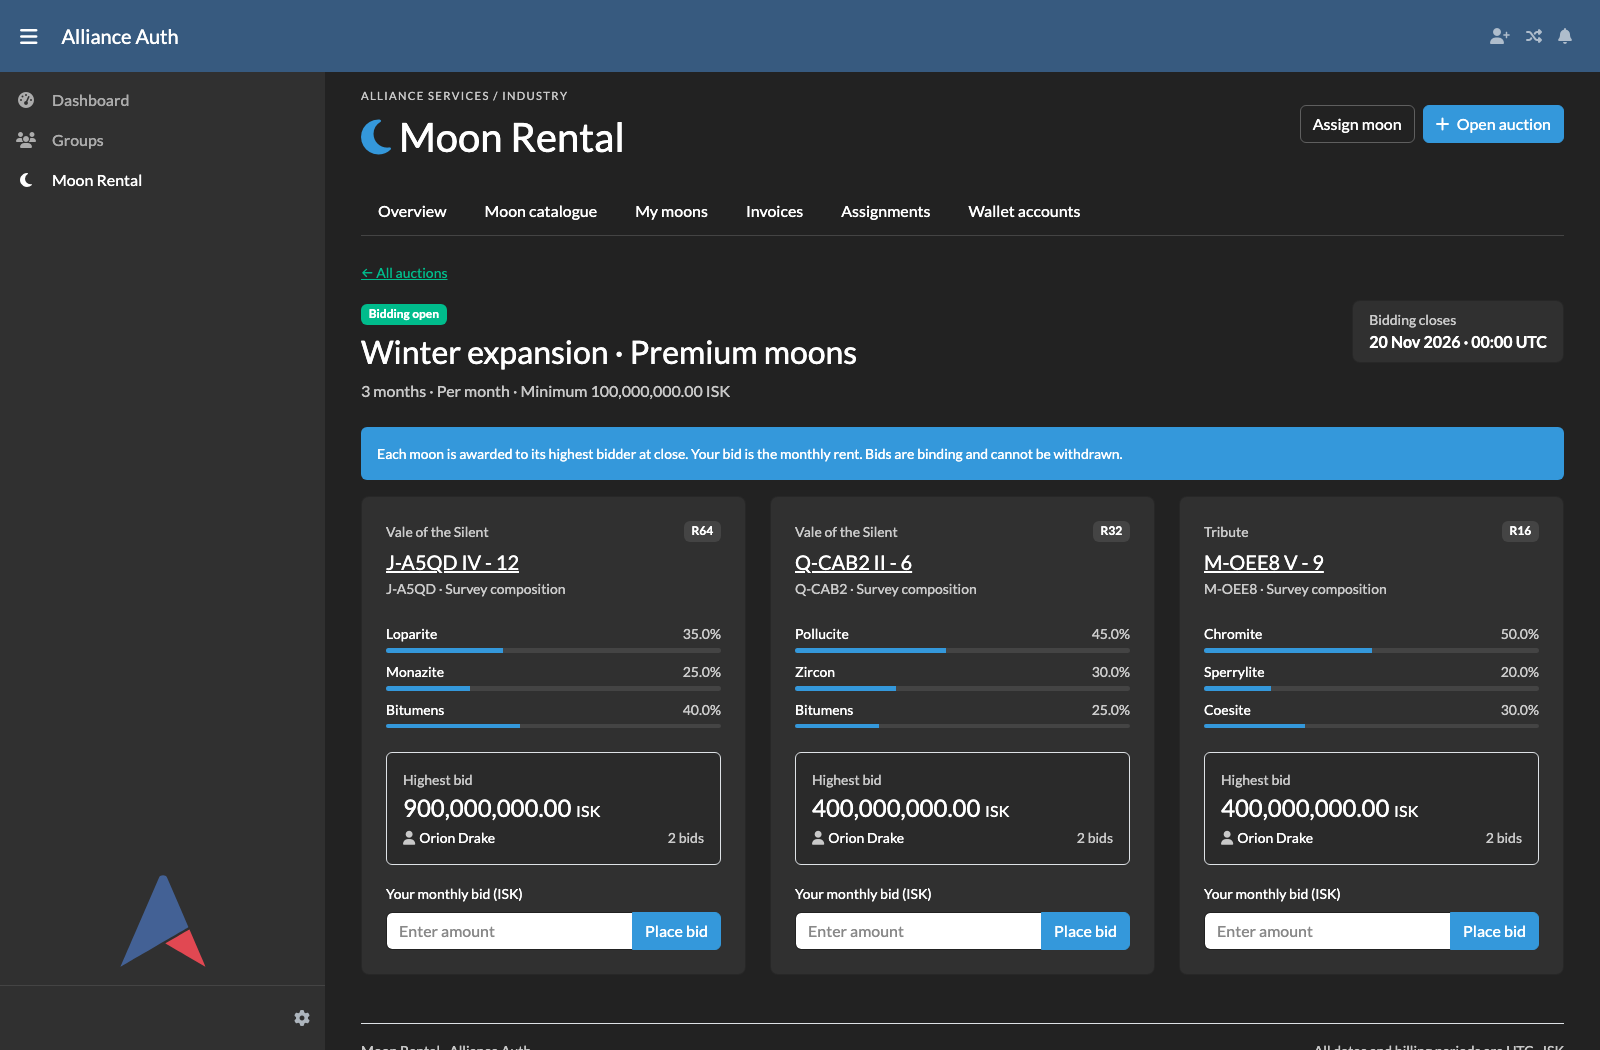
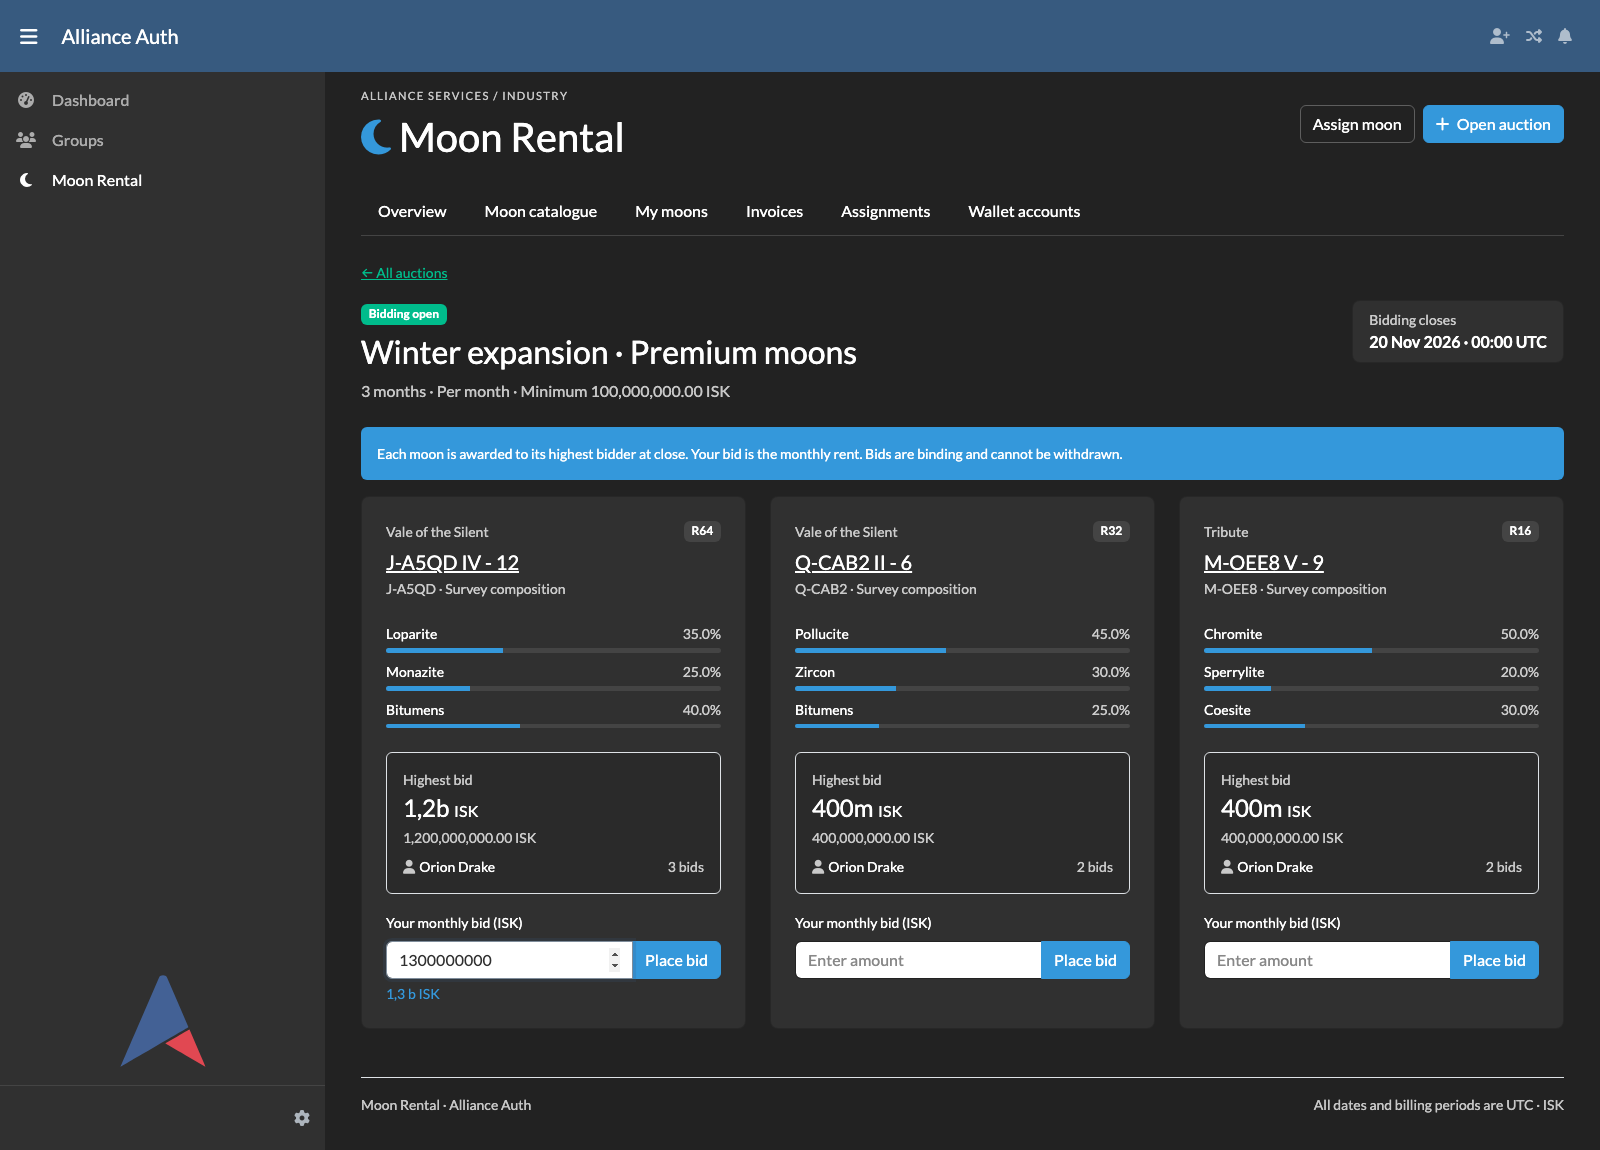
Simplify ISK input previews and highest-bid amounts (#3)
* Show live compact previews for every ISK input

* Display highest and winning bids in compact ISK format

diff --git a/moon_rental/templates/moon_rental/auction.html b/moon_rental/templates/moon_rental/auction.html
@@ -3,5 +3,5 @@
 <a class="small" href="{% url 'moon_rental:index' %}">← All auctions</a>
 <div class="d-flex justify-content-between align-items-start flex-wrap gap-3 mt-3 mb-4"><div><span class="badge {% if bidding_open %}text-bg-success{% else %}text-bg-secondary{% endif %} mb-2">{% if bidding_open %}Bidding open{% elif auction.settled_at %}Awarded{% else %}Bidding closed · awaiting settlement{% endif %}</span><h2 class="h3">{{ auction.title }}</h2><p class="text-body-secondary mb-0">{{ auction.duration_months }} months · {{ auction.get_billing_mode_display }} · Minimum {{ auction.minimum_bid|isk }} ISK</p></div><div class="card"><div class="card-body py-2 px-3"><div class="small text-body-secondary">Bidding closes</div><strong>{{ auction.ends_at|date:"d M Y · H:i" }} UTC</strong></div></div></div>
 <div class="alert alert-info small">Each moon is awarded to its highest bidder at close. Your bid is {% if auction.billing_mode == 'monthly' %}the monthly rent{% else %}the total rent for the full term{% endif %}. Bids are binding and cannot be withdrawn.</div>
-<div class="row g-4">{% for row in rows %}<div class="col-md-6 col-xxl-4"><article class="card h-100"><div class="card-body p-4"><div class="d-flex justify-content-between align-items-center mb-2"><span class="small text-body-secondary">{{ row.lot.moon.region }}</span><span class="badge text-bg-secondary">R{{ row.lot.moon.rarity }}</span></div><h3 class="h5 mb-1"><a class="text-reset" href="{% url 'moon_rental:moon' row.lot.moon.pk %}">{{ row.lot.moon.name }}</a></h3><div class="small text-body-secondary mb-4">{{ row.lot.moon.solar_system }} · Survey composition</div>{% include "moon_rental/composition.html" with moon=row.lot.moon %}<div class="mr-bid-box rounded border p-3 mt-4"><div class="small text-body-secondary">{% if auction.settled_at %}Winning bid{% else %}Highest bid{% endif %}</div><div class="h4 mr-numeric mt-1 mb-1">{% if row.top %}{{ row.top.amount|isk }} <small class="fs-6">ISK</small>{% else %}No bids yet{% endif %}</div><div class="small">{% if row.top %}<i class="fas fa-user me-1 text-body-secondary" aria-hidden="true"></i>{{ row.top.bidder }}{% else %}Be the first to bid{% endif %}<span class="text-body-secondary float-end">{{ row.count }} bid{{ row.count|pluralize }}</span></div></div>{% if bidding_open %}<form method="post" action="{% url 'moon_rental:bid' row.lot.pk %}" class="mt-3">{% csrf_token %}<label class="form-label small" for="bid-{{ row.lot.pk }}">Your {% if auction.billing_mode == 'monthly' %}monthly {% endif %}bid (ISK)</label><div class="input-group"><input class="form-control mr-numeric" id="bid-{{ row.lot.pk }}" name="amount" type="number" min="{{ auction.minimum_bid }}" step="0.01" placeholder="Enter amount" required><button class="btn btn-info" type="submit">Place bid</button></div></form>{% endif %}</div></article></div>{% endfor %}</div>
+<div class="row g-4">{% for row in rows %}<div class="col-md-6 col-xxl-4"><article class="card h-100"><div class="card-body p-4"><div class="d-flex justify-content-between align-items-center mb-2"><span class="small text-body-secondary">{{ row.lot.moon.region }}</span><span class="badge text-bg-secondary">R{{ row.lot.moon.rarity }}</span></div><h3 class="h5 mb-1"><a class="text-reset" href="{% url 'moon_rental:moon' row.lot.moon.pk %}">{{ row.lot.moon.name }}</a></h3><div class="small text-body-secondary mb-4">{{ row.lot.moon.solar_system }} · Survey composition</div>{% include "moon_rental/composition.html" with moon=row.lot.moon %}<div class="mr-bid-box rounded border p-3 mt-4"><div class="small text-body-secondary">{% if auction.settled_at %}Winning bid{% else %}Highest bid{% endif %}</div><div class="h4 mr-numeric mt-1 mb-1">{% if row.top %}{{ row.top.amount|compact_isk }} <small class="fs-6">ISK</small>{% else %}No bids yet{% endif %}</div>{% if row.top %}<div class="small text-body-secondary mr-numeric mb-2">{{ row.top.amount|isk }} ISK</div>{% endif %}<div class="small">{% if row.top %}<i class="fas fa-user me-1 text-body-secondary" aria-hidden="true"></i>{{ row.top.bidder }}{% else %}Be the first to bid{% endif %}<span class="text-body-secondary float-end">{{ row.count }} bid{{ row.count|pluralize }}</span></div></div>{% if bidding_open %}<form method="post" action="{% url 'moon_rental:bid' row.lot.pk %}" class="mt-3">{% csrf_token %}<label class="form-label small" for="bid-{{ row.lot.pk }}">Your {% if auction.billing_mode == 'monthly' %}monthly {% endif %}bid (ISK)</label><div class="input-group"><input class="form-control mr-numeric" id="bid-{{ row.lot.pk }}" name="amount" type="number" data-isk-input inputmode="decimal" min="{{ auction.minimum_bid }}" step="0.01" placeholder="Enter amount" required><button class="btn btn-info" type="submit">Place bid</button></div></form>{% endif %}</div></article></div>{% endfor %}</div>
 {% endblock %}

diff --git a/moon_rental/static/moon_rental/rental.js b/moon_rental/static/moon_rental/rental.js
@@ -1,4 +1,46 @@
 "use strict";
+
+// The preview is deliberately separate from the input: never round or rewrite
+// the original decimal string submitted to Django.
+(() => {
+    const formatter = new Intl.NumberFormat("fr-BE", { maximumFractionDigits: 2 });
+    const units = [[1e12, "t"], [1e9, "b"], [1e6, "m"], [1e3, "k"]];
+    const refreshers = [];
+
+    document.querySelectorAll("input[data-isk-input]").forEach((input) => {
+        const preview = document.createElement("output");
+        preview.id = `${input.id}-isk-preview`;
+        preview.htmlFor = input.id;
+        preview.className = "form-text text-info mr-numeric mr-isk-preview";
+        preview.setAttribute("aria-live", "polite");
+        preview.setAttribute("aria-atomic", "true");
+        (input.closest(".input-group") || input).after(preview);
+        const descriptions = new Set((input.getAttribute("aria-describedby") || "").split(/\s+/).filter(Boolean));
+        descriptions.add(preview.id);
+        input.setAttribute("aria-describedby", [...descriptions].join(" "));
+
+        const update = () => {
+            const raw = input.value.trim();
+            const amount = Number(raw);
+            preview.hidden = raw === "" || !Number.isFinite(amount) || amount < 0;
+            if (preview.hidden) {
+                preview.textContent = "";
+                return;
+            }
+            const [scale, suffix] = units.find(([threshold]) => amount >= threshold) || [1, ""];
+            preview.textContent = `${formatter.format(amount / scale)}${suffix ? ` ${suffix}` : ""} ISK`;
+        };
+        input.addEventListener("input", update);
+        input.addEventListener("change", update);
+        refreshers.push(update);
+        update();
+    });
+
+    const refresh = () => refreshers.forEach((update) => update());
+    window.addEventListener("pageshow", refresh);
+    document.addEventListener("reset", () => setTimeout(refresh, 0));
+})();
+
 document.addEventListener("click", async (event) => {
     const button = event.target.closest(".mr-copy");
     if (!button) return;

diff --git a/moon_rental/static/moon_rental/rental.css b/moon_rental/static/moon_rental/rental.css
@@ -7,6 +7,7 @@
 .mr-eyebrow { letter-spacing: .12em; font-size: .7rem; }
 .mr-intro { padding: .75rem 0; }
 .mr-numeric, .mr-reference { font-variant-numeric: tabular-nums; }
+.mr-isk-preview:not([hidden]) { display: block; }
 .mr-reference { color: var(--bs-info); font-size: .95rem; white-space: nowrap; }
 .mr-composition { height: .3rem; background: rgba(127, 127, 127, .25); }
 .mr-bid-box { background: rgba(0, 0, 0, .12); }

diff --git a/moon_rental/forms.py b/moon_rental/forms.py
@@ -6,6 +6,11 @@ from django.contrib.auth import get_user_model
 from moon_rental.models import BillingMode, Moon
 
 
+class IskInput(forms.NumberInput):
+    def __init__(self, attrs=None):
+        super().__init__({"data-isk-input": "", "inputmode": "decimal", **(attrs or {})})
+
+
 class TermsForm(forms.Form):
     duration_months = forms.IntegerField(min_value=1, max_value=120, initial=3)
     billing_mode = forms.ChoiceField(choices=BillingMode.choices, initial=BillingMode.MONTHLY)
@@ -21,7 +26,12 @@ class AuctionForm(TermsForm):
         widget=forms.DateTimeInput(attrs={"type": "datetime-local"}),
     )
     minimum_bid = forms.DecimalField(
-        max_digits=20, decimal_places=2, min_value=Decimal("0.01"), initial=100000000
+        max_digits=20,
+        decimal_places=2,
+        min_value=Decimal("0.01"),
+        initial=100000000,
+        label="Minimum bid (ISK)",
+        widget=IskInput(),
     )
 
     def __init__(self, *args, **kwargs):
@@ -33,7 +43,11 @@ class AuctionForm(TermsForm):
 
 class BidForm(forms.Form):
     amount = forms.DecimalField(
-        max_digits=20, decimal_places=2, min_value=Decimal("0.01"), label="Your bid (ISK)"
+        max_digits=20,
+        decimal_places=2,
+        min_value=Decimal("0.01"),
+        label="Your bid (ISK)",
+        widget=IskInput(),
     )
 
 
@@ -43,7 +57,11 @@ class AssignmentForm(TermsForm):
         queryset=get_user_model().objects.filter(is_active=True).order_by("username")
     )
     price = forms.DecimalField(
-        max_digits=20, decimal_places=2, min_value=Decimal("0.01"), label="Rent (ISK)"
+        max_digits=20,
+        decimal_places=2,
+        min_value=Decimal("0.01"),
+        label="Rent (ISK)",
+        widget=IskInput(),
     )
 
     def __init__(self, *args, **kwargs):

diff --git a/tests/test_rentals.py b/tests/test_rentals.py
@@ -5,6 +5,7 @@ from decimal import Decimal
 import pytest
 from django.contrib.auth.models import User
 from django.core.exceptions import PermissionDenied, ValidationError
+from django.db import connection
 from django.utils import timezone
 
 from moon_rental.models import Auction, AuctionLot, Invoice, Rental
@@ -18,6 +19,20 @@ from moon_rental.services.rentals import (
 )
 
 pytestmark = pytest.mark.django_db
+
+
+def test_large_bid_retains_exact_cents_through_award(auction, pilot):
+    if connection.vendor == "sqlite":
+        pytest.skip("SQLite stores DECIMAL as floats; production precision is checked on MySQL.")
+    amount = Decimal("9007199254740993.01")
+    Auction.objects.filter(pk=auction.pk).update(billing_mode="once")
+    bid = place_bid(actor=pilot, lot_id=auction.lots.get().pk, amount=str(amount))
+    bid.refresh_from_db()
+    assert bid.amount == amount
+    settle_auction(auction.pk, at=auction.ends_at)
+    rental = Rental.objects.get(auction_lot=bid.lot)
+    assert rental.price == amount
+    assert rental.invoices.get().amount == amount
 
 
 @pytest.mark.parametrize("amount", [0, -1, "NaN", "Infinity", "0.001", "1e19", "bad"])

diff --git a/moon_rental/templatetags/moon_rental.py b/moon_rental/templatetags/moon_rental.py
@@ -1,4 +1,4 @@
-from decimal import Decimal, InvalidOperation
+from decimal import ROUND_HALF_UP, Decimal, InvalidOperation
 
 from django import template
 
@@ -9,5 +9,21 @@ register = template.Library()
 def isk(value):
     try:
         return f"{Decimal(value):,.2f}"
+    except (InvalidOperation, TypeError, ValueError):
+        return "—"
+
+
+@register.filter
+def compact_isk(value):
+    """Compact display only; keep amounts as Decimal throughout formatting."""
+    try:
+        amount = Decimal(value)
+        if not amount.is_finite():
+            return "—"
+        for scale, suffix in [(10**12, "t"), (10**9, "b"), (10**6, "m"), (10**3, "k"), (1, "")]:
+            if abs(amount) >= scale or scale == 1:
+                rounded = (amount / scale).quantize(Decimal("0.01"), rounding=ROUND_HALF_UP)
+                number = format(rounded, "f").rstrip("0").rstrip(".")
+                return number.replace(".", ",") + suffix
     except (InvalidOperation, TypeError, ValueError):
         return "—"

diff --git a/README.md b/README.md
@@ -9,6 +9,8 @@ An Alliance Auth module for auctioning surveyed moons, managing leases and match
 - Admin-only synchronization of moon names, systems, regions, rarity, ore distribution and value estimates from `moonmining`. Source data is never modified. Removed moons cannot be offered again; existing leases remain accessible.
 - Managers open auctions for multiple available moons, choose a UTC deadline, term of 1–120 months, minimum bid and monthly (default) or single-payment billing.
 - Members see each moon's survey, highest bidder and bid amount. New bids must strictly exceed the current highest bid. Bids are binding; there is no withdrawal or early settlement endpoint.
+- Every ISK input shows a live compact preview, such as `1,2 b ISK`, while submitting the original exact amount. Previews use `k`, `m`, `b` and `t` for thousands, millions, billions and trillions.
+- Highest and winning bids use the same compact units (for example, `1,2b ISK`), with the full exact amount shown underneath.
 - Each moon is independently awarded at the deadline. Settlement is automatic and repeatable. An admin can end/correct an assignment; managers cannot alter existing leases, including auction awards.
 - Managers can directly assign available moons at a fixed rent. Members see current and past leases under **My moons**.
 - Calendar-month invoices, copyable payment references such as `moon-rental-A1B2.C3D4`, exact ISK amounts and recipient names. Managers see open, paid and void invoices for all renters; members see only their own.
